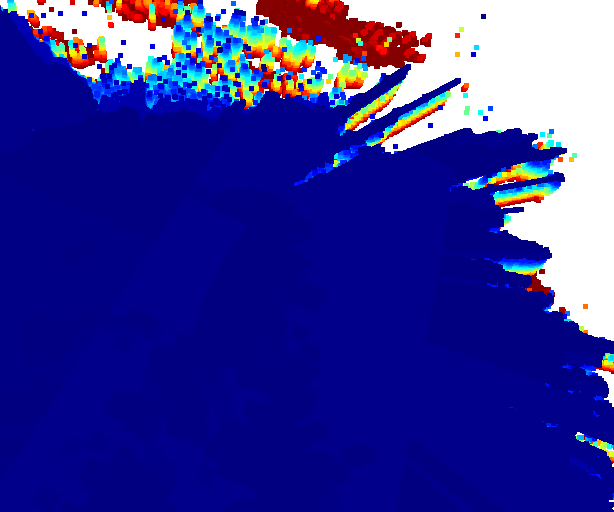
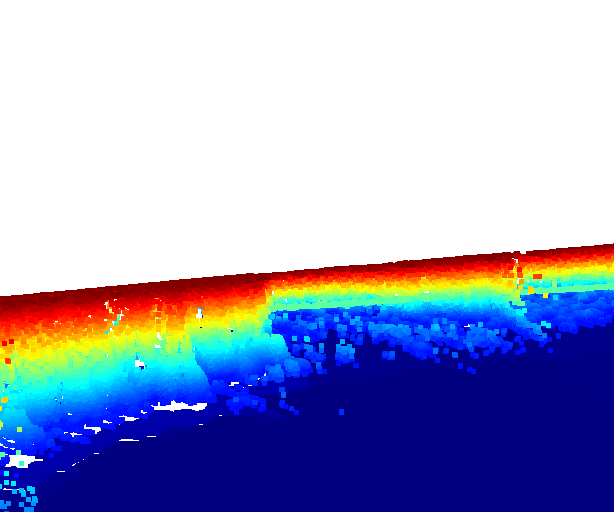
First working map view with fron/rear/map view generated from Processed3dView and displayed at TrackingViewer;

diff --git a/view/Processed3dView.py b/view/Processed3dView.py
@@ -262,21 +262,22 @@ class ViewProcessor3D():
         map_pos_x, map_pos_y = self.locate_point(pos)
         logging.info(f"Adjust by map size, after ({map_pos_x, map_pos_y})")
 
-        # Adjustment based on zoom factor
-        #adjust_x = int(self.map_source_img.size[0] / self.zoom_factor / 2 - self.map_source_img.size[0] / 2)
-        #adjust_y = int(self.map_source_img.size[1] / self.zoom_factor / 2 - self.map_source_img.size[1] / 2)
-
-        map_pos_x = int(map_pos_x * self.zoom_factor)
-        map_pos_y = int(map_pos_y * self.zoom_factor)
-        logging.info(f"Adjust by zoom, after ({map_pos_x, map_pos_y})")
-
-        map_scale_x = self.window_width / (self.map_source_img.size[0] * self.zoom_factor)
-        map_scale_y = self.window_height / (self.map_source_img.size[1] * self.zoom_factor)
+        map_scale_x = self.window_width / self.map_source_img.size[0]
+        map_scale_y = self.window_height / self.map_source_img.size[1]
 
         # Adjustment original point based on window scale
         map_pos_x = int(map_pos_x * map_scale_x)
         map_pos_y = int(map_pos_y * map_scale_y)
         logging.info(f"Adjust by window, after ({map_pos_x, map_pos_y})")
+
+        # Adjustment based on zoom factor
+        #adjust_x = int(self.map_source_img.size[0] / self.zoom_factor / 2 - self.map_source_img.size[0] / 2)
+        #adjust_y = int(self.map_source_img.size[1] / self.zoom_factor / 2 - self.map_source_img.size[1] / 2)
+
+        # Adjustment original point based on zoom factor
+        map_pos_x = int(map_pos_x / self.zoom_factor - (self.window_width / 2 / self.zoom_factor - self.window_width / 2))
+        map_pos_y = int(map_pos_y / self.zoom_factor - (self.window_height / 2 / self.zoom_factor - self.window_height / 2))
+        logging.info(f"Adjust by zoom, after ({map_pos_x, map_pos_y})")
 
         moving_pos = (map_pos_x, map_pos_y)
 
@@ -393,6 +394,9 @@ class ViewProcessor3D():
     def get_rear_view_camera_params_path(self):
         return os.path.join(os.path.join(os.getcwd(), 'config'), "rear_camera.json")
 
+    def get_base_view_camera_params_path(self):
+        return os.path.join(os.path.join(os.getcwd(), 'config'), "base_camera.json")
+
     def get_image_path(self, image_filename):
         return os.path.join(os.path.join(os.getcwd(), 'images'), image_filename)
 
@@ -442,8 +446,9 @@ class ViewProcessor3D():
         return True
 
     def generate_front_rear_view(self, vis3d, target_pos=(0, 0)):
+        origin_x, origin_y = self.origin_pos_move
         move_pos_x, move_pos_y = self.locate_moving_distance(target_pos)
-        logging.debug(f"Locate front and rear camerar at move pos: ({move_pos_x}, {move_pos_y}) front view pos: {target_pos}")
+        logging.debug(f"Locate front/rear view to move: ({move_pos_x}, {move_pos_y}) for target: {target_pos}")
 
         x0 = int(self.window_width / 2)
         y0 = int(self.window_height / 2)
@@ -456,7 +461,7 @@ class ViewProcessor3D():
         logging.debug("Loaded front camera parameters")
 
         ctr3d = vis3d.get_view_control()
-        ctr3d.translate(move_pos_x, move_pos_y, x0=origin_x, y0=origin_y)
+        ctr3d.translate(move_pos_x, move_pos_y, xo=origin_x, yo=origin_y)
 
         #
         # ctr3d = vis3d.get_view_control()
@@ -477,12 +482,23 @@ class ViewProcessor3D():
         rear_camera_parms = self.get_rear_view_camera_params_path()
         self.load_camera_params(vis3d, rear_camera_parms)
 
+        ctr3d = vis3d.get_view_control()
+        ctr3d.translate(move_pos_x, move_pos_y, xo=origin_x, yo=origin_y)
+
         vis3d.poll_events()
         vis3d.update_renderer()
 
         rear_img_temp_path = self.get_image_path("rear_image_tmp.png")
         vis3d.capture_screen_image(rear_img_temp_path, do_render=True)
         rear_image = Image.open(rear_img_temp_path)
+
+        logging.debug("Loaded rear camera parameters")
+        # Restore with base camera parameters
+        base_camera_parms = self.get_base_view_camera_params_path()
+        self.load_camera_params(vis3d, base_camera_parms)
+
+        vis3d.poll_events()
+        vis3d.update_renderer()
 
         return (front_image, rear_image)
 
@@ -542,7 +558,7 @@ if __name__ == "__main__":
     min_x = -5120
     min_y = -6144
     max_x = 5120
-    max_y = 3072
+    max_y = 5120
 
     map_path = "..\\data\\processed\\merged_gray_images.png"
 
